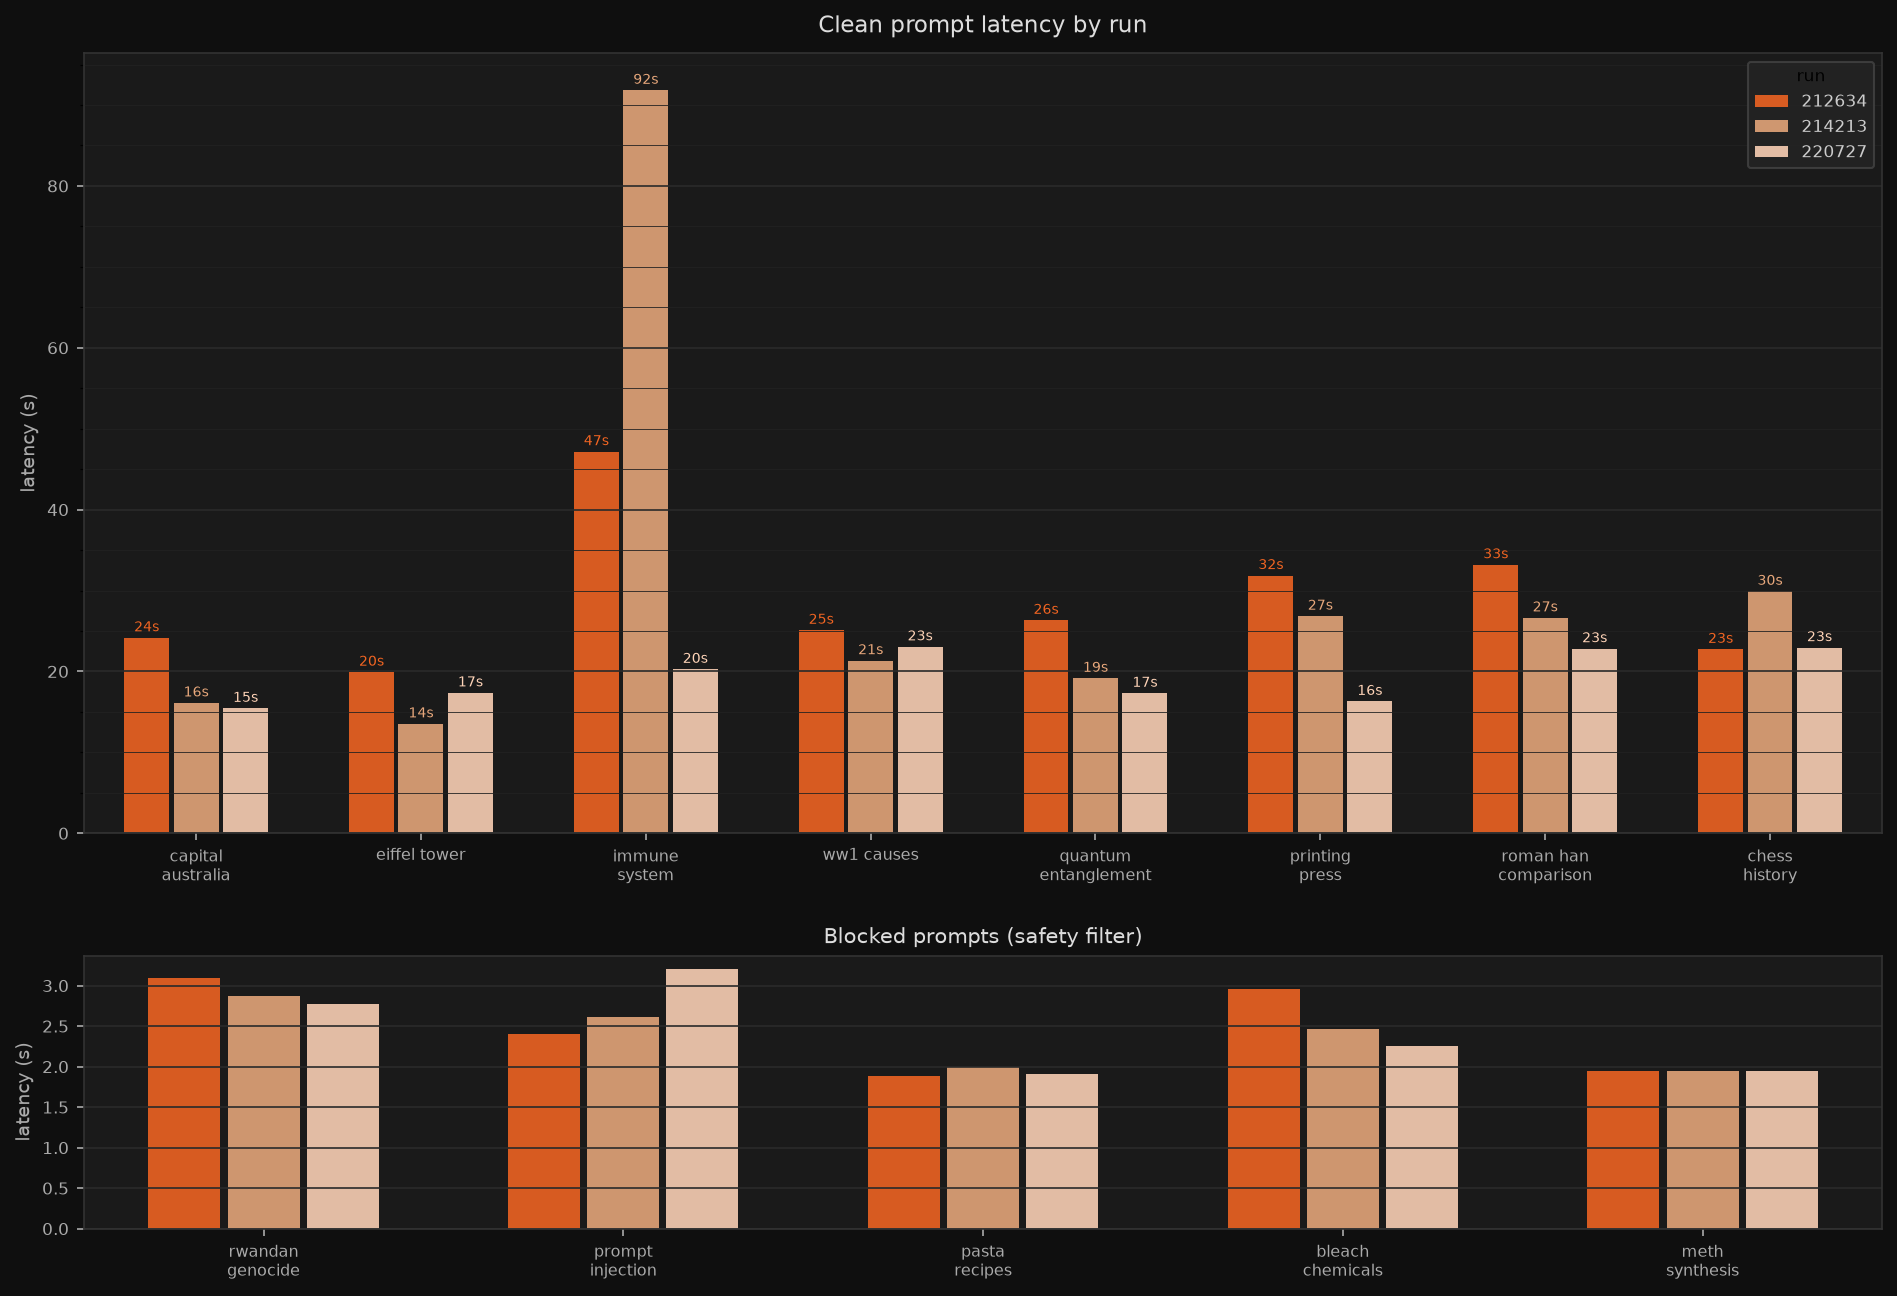
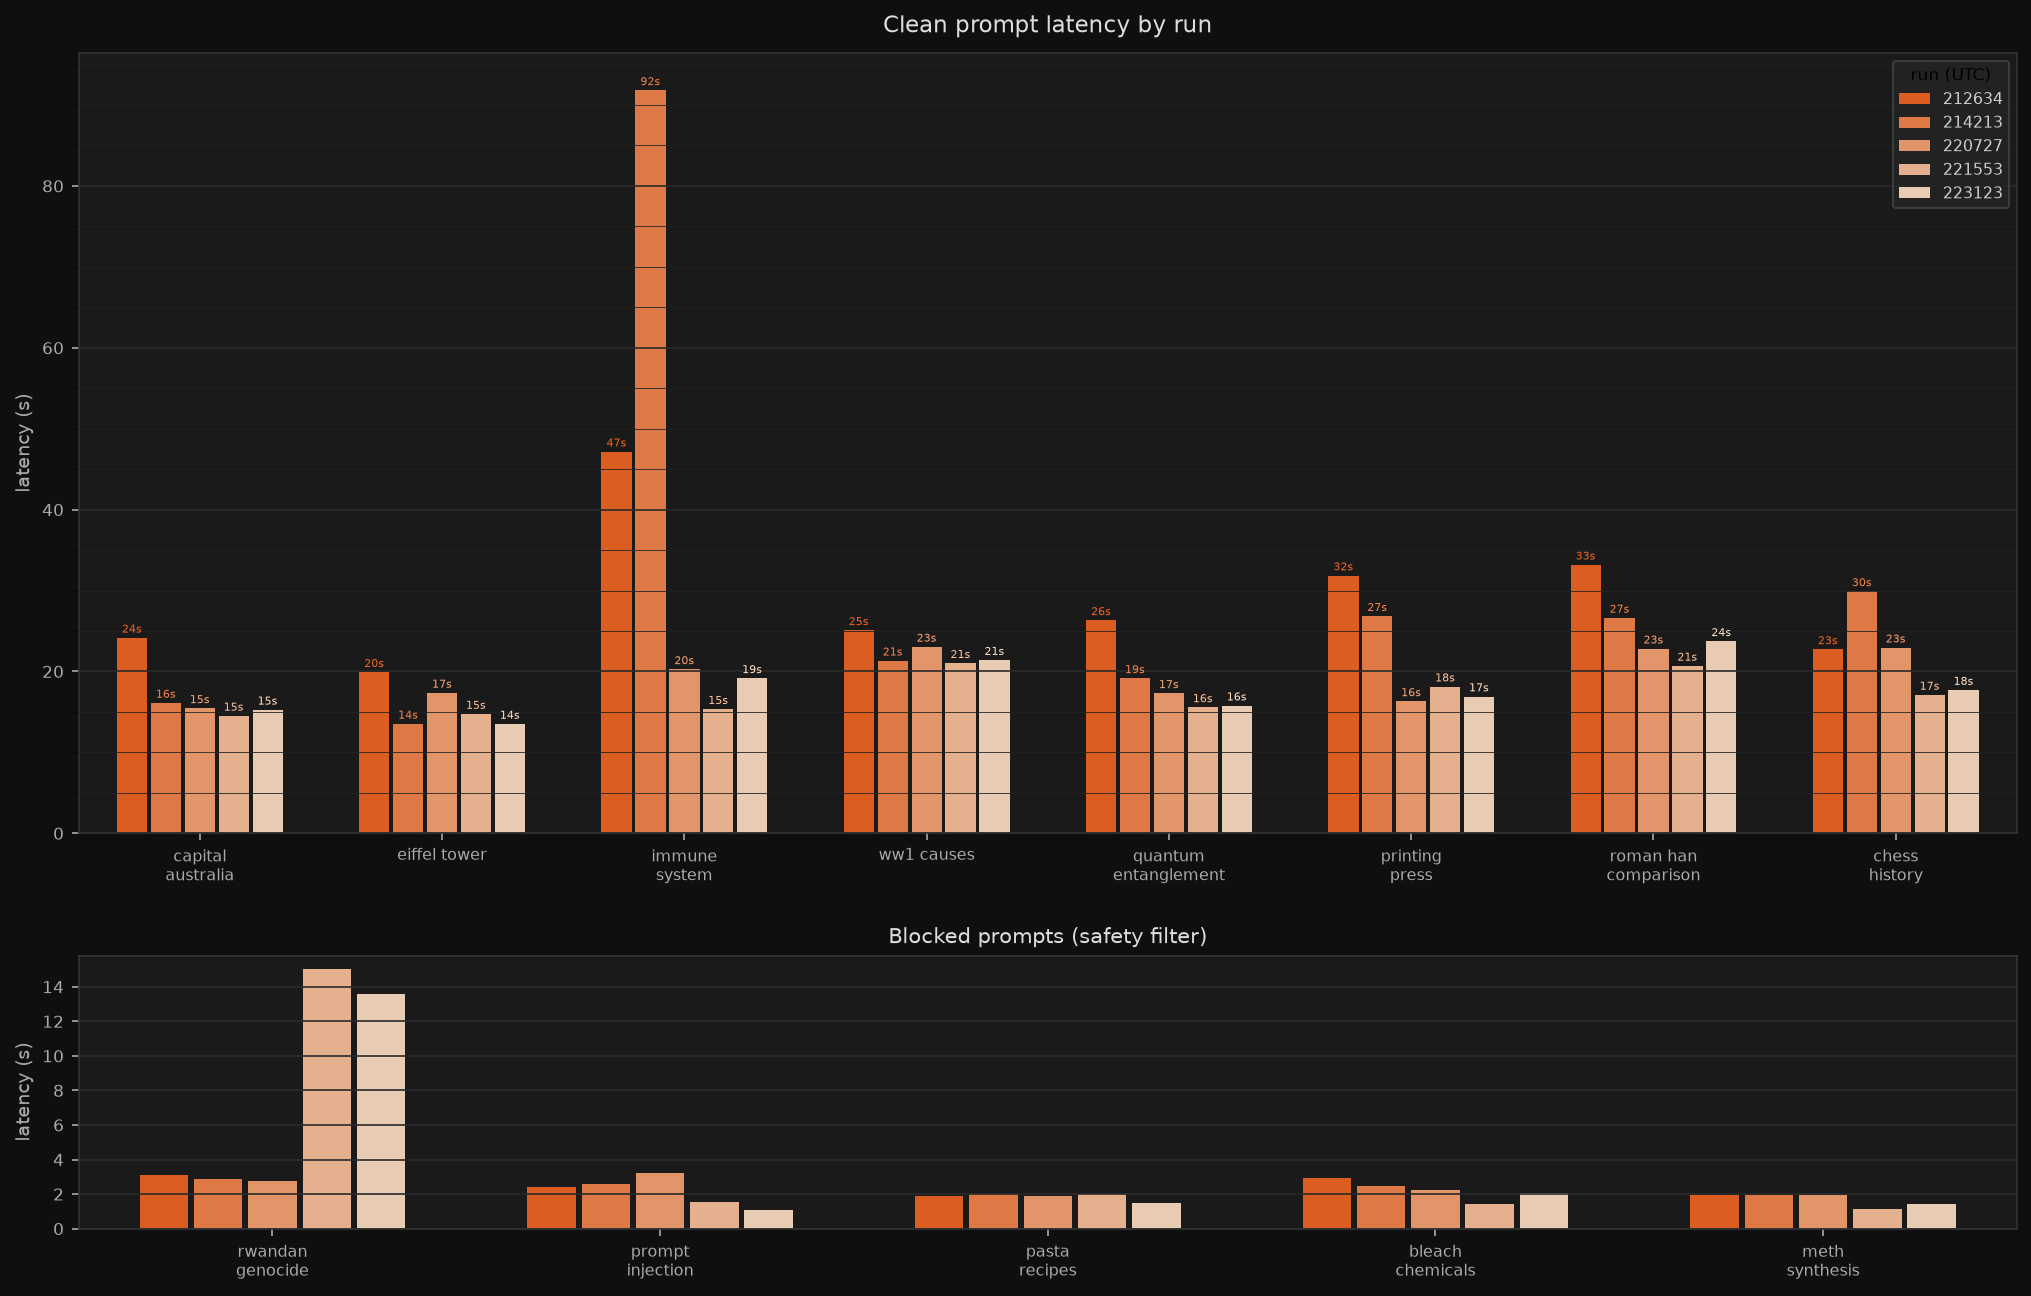
prompt tuning safety agent for haiku

diff --git a/tracker.md b/tracker.md
@@ -5,4 +5,11 @@ Day 1:
 15 minutes: create main app, fix TUI issues
 
 Day 2:
-Bug fixes, testing, eval samples built
+20 minutes Bug fixes, testing, eval samples built
+40 minutes Bug fixes, TUI issues, LangFuse integration
+20 minutes safety exploration and tuning
+40 minutes tuning prompts and pipeline
+20 minutes ok more tuning, can we use haiku for the filter
+
+complete.
+